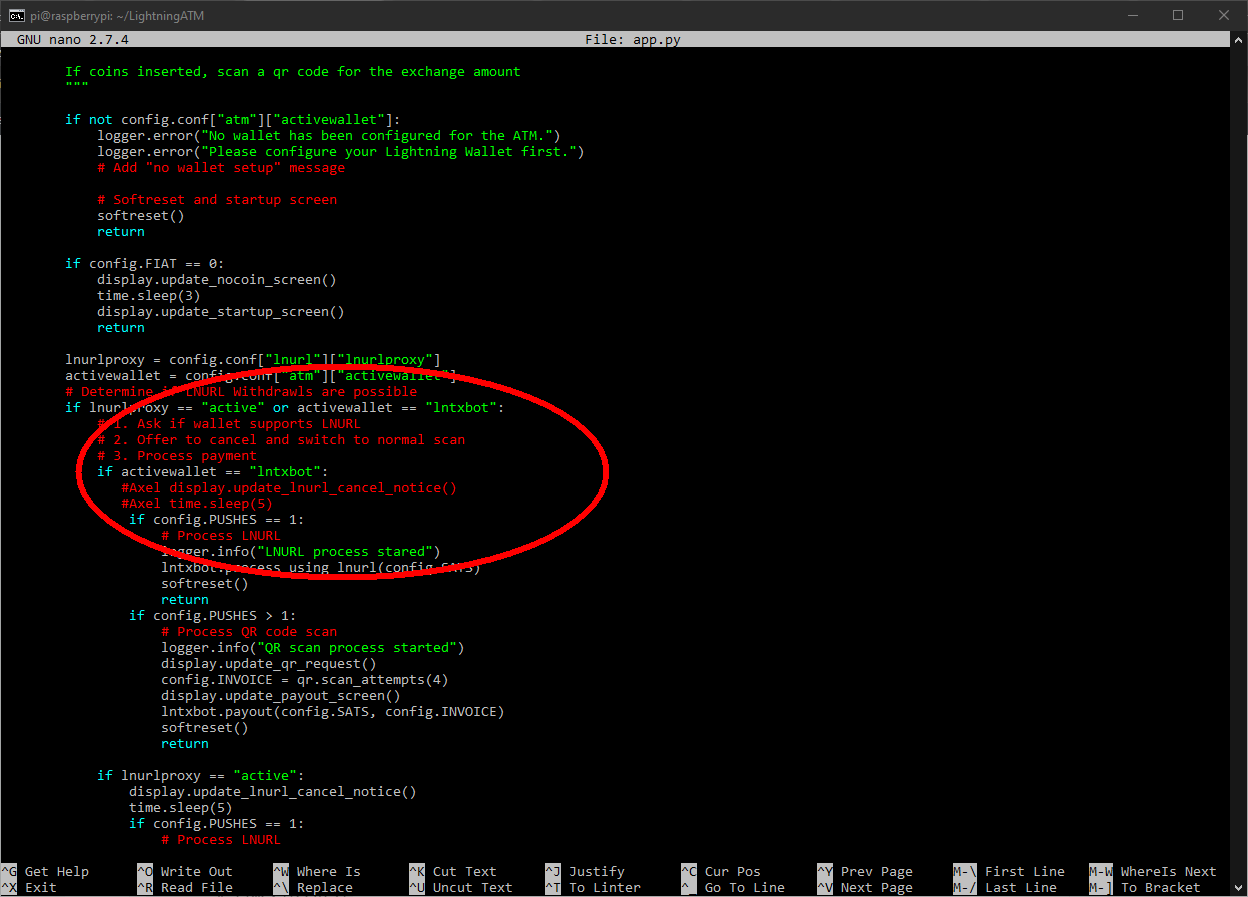
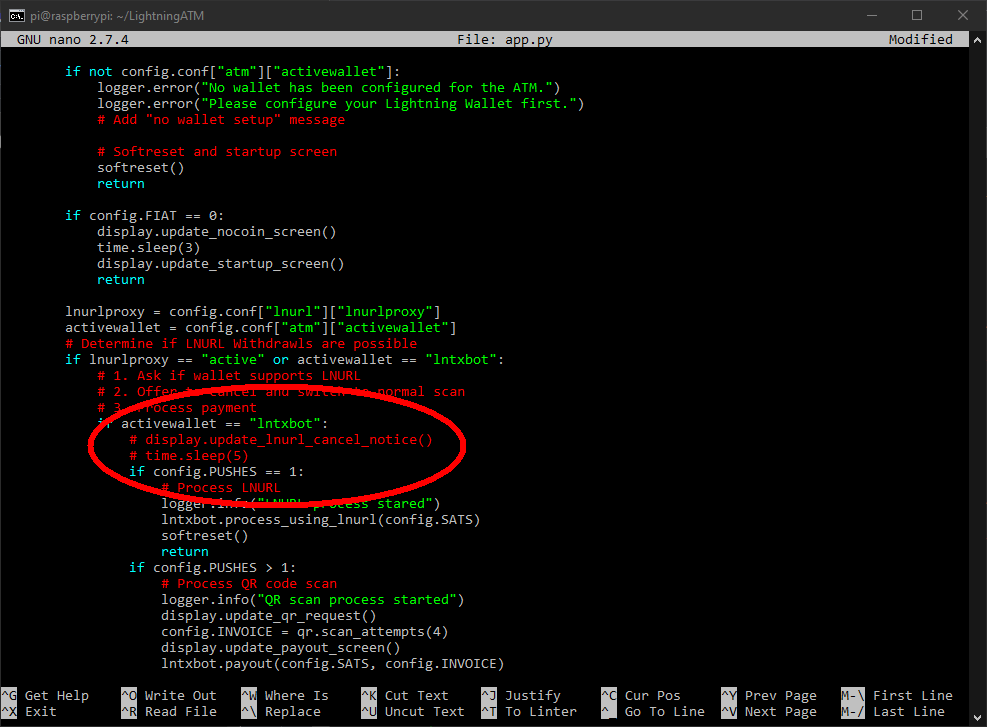
Update of the documentation (#58)
* Removed the pulse handling part in the app.py because not relevant anymore
* Few pictures update
* Add doc navigation 
* Fixed an error in the edit_config.md
* Fixes some more small sentenses for better underständing

Changed region(s): [[0.0, 0.0, 1.0, 1.0]]

diff --git a/docs/guide/edit_config.md b/docs/guide/edit_config.md
@@ -11,10 +11,10 @@ $ cd ~/LightningATM/
 $ ./app.py
 ```
 
-- The app.py (the ATM) was started and the config.ini file was created
-- The display should now show `LightningATM` (You must have tested the display first!)
-- The process or the ATM can be interrupted/stopped with `CTRL+C`
-- After a short time, `Manually Interrupted` is shown in the terminal windos and you should see `ATM is turned off` on the display
+- When you first start you will probably get an error message because the default display type is wrong. But you can ignore the message. The config.ini has now been created in the background.
+- The "app.py" process can now be stopped with `CTRL+C`
+- After a short time, `Manually Interrupted` is shown in the terminal window
+- Now edit the config.ini as described below
 
 ### Open the config.ini file
 
@@ -26,14 +26,14 @@ $ nano ~/.lightningATM/config.ini
 
 ### Set the config.ini file
 
-###### Enter display type under `[atm]`
+#### Enter display type under `[atm]`
 
 ```
 	display = waveshare2in13v2
 ```
 `Note:` Please compare the display type. Yours may require different settings.
 
-###### *Only for Pocket Version:* Delay time (set from 0 to 12 seconds)
+#### *Only for Pocket Version:* Delay time (set from 0 to 12 seconds)
 
 ```
 	payoutdelay = 12 
@@ -42,7 +42,7 @@ $ nano ~/.lightningATM/config.ini
 - Its needed for the the pocket version, because it has no push button for confimrmation. The invoice will be generated automatically after 12 seconds
 - Note: If you have a button version, you must keep the 0.
 
-###### Set activate wallet type / example LNTXBOT
+#### Set activate wallet type / example LNTXBOT
 
 - If you would like to set a BTCPayServer wallet, get further information here: [BTCPayServer](https://docs.lightningatm.me/lightningatm-setup/wallet-setup/lnd_btcpay)
 - Note: A good guide to getting started with the LNTXBOT can be found here: [coincharge.io](https://coincharge.io/en/lntxbot-telegram-lightning-wallet/)
@@ -51,7 +51,7 @@ $ nano ~/.lightningATM/config.ini
 	activewallet = lntxbot
 ```
 
-###### Under `[lntxbot]` enter the data for the API to the lntxbot
+#### Under `[lntxbot]` enter the data for the API to the lntxbot
 
 ```
 [lntxbot]
@@ -63,7 +63,9 @@ creds = abc..xyz==
 - Note: The LNTXBOT delivers `url` and `creds` with the command `/lightningATM` from you Telegram bot
 - The structure from the bot answer is build up like: `<creds>@<url>`
 
-###### Set the coins to the pulses
+#### Set the coins to the pulses
+
+- Each coin generates a specific number of pulses. Here 2 to 7 pulses.
 
 ```
 [coins]
@@ -76,16 +78,43 @@ coin_types = 2,0.05,5  eur cent
              7,2.00,2 eur
 ```
 
-- To save and exit the editor: `CTRL+x -> y -> ENTER`
-- Note: In version 0.3.0 you still had to make the setting in app.py. I don't know which version you get, but if the settings with the config.ini don't work, you can set them directly in the app.py. I wrote something about that in the next chapter "[edit app.py](/docs/guide/edit_app.md)". But if you are lucky, it might be enough to set it here in the config.ini. You have to test it out. With the monitoring system (tmux), explanation see chapter "[tmux monitoring](/docs/guide/tmux_monitoring.md)", you can see that well.
+- When you finshed with changings in the config.ini, save and exit the editor: `CTRL+x -> y -> ENTER`
+- Note: In the config.ini you can also change the currency and fees
 
-config.ini part 1 (just an example)
+config.ini part 1 (example)
 ![config.ini part 1](../pictures/edit_config_terminal_1.png)
 
-config.ini part 2 (just an example)
+config.ini part 2 (example)
 ![config.ini part 2](../pictures/edit_config_terminal_2.png)
 
+#### Test the settings (or the entire ATM) once
 
+- Start the ATM again
+
+```
+$ cd ~/LightningATM/
+$ ./app.py
+```
+
+- The display should now show `LightningATM`
+- If everything is entered correctly, the ATM should now be ready for use
+- Just test it with few coins
+- If it doesn't work, the chapter with [`tmux`](/docs/guide/tmux_monitoring.md) will come later. You can make a diagnosis there
+- To stop the ATM just press `CTRL+C`
+- After a short time, `Manually Interrupted` is displayed and you can see on the display that the `ATM is turned off`
+- Note: How to give the ATM an autostart function, you will learn later in chapter [`autostart`](/docs/guide/autostart.md)
+
+display LightningATM
+
+<img src="../pictures/edit_config_display_ATM_on.jpg" width="500">
+
+display ATM turned off!
+
+<img src="../pictures/edit_config_display_ATM_off.jpg" width="500">
+
+---
+
+#### [display](/docs/guide/display.md)  ᐊ  previous | next  ᐅ  [edit_app](/docs/guide/edit_app.md)
 
 
 

diff --git a/docs/guide/edit_app.md b/docs/guide/edit_app.md
@@ -11,8 +11,8 @@ $ nano app.py
 
 ##### Optional setting *only for the pocket version:* Skip the "Prepare for LNURL" page:
 
-- Search for `display.update_lnurl_cancel_notice()` with `CTRL+W`. (It exists twice)
-- There is a place where it says `if activewallet == "lntxbot"`, please edit the two lines (see picture)
+- Search for `display.update_lnurl_cancel_notice()` with `CTRL+W` or just scroll down a few lines. 
+- There is a place where it says `if activewallet == "lntxbot"`, please edit the two lines below (see picture)
 
 ###### Comment out the following two lines with `#`
 
@@ -21,43 +21,14 @@ $ nano app.py
 	# time.sleep(5)
 ```
 
--> This will skip the LNURL "query page" as it is not relevant for the pocket version (without push button).
+-> This will skip the LNURL "query page" as it is not relevant to the pocket version 
 
-#####  Alternative setting: coin preselection if the setting in config.ini does not work:
-
-###### Adjustment of the pulses for the respective coins
-
-- Search for `if config.PULSES == 2` in app.py with `CTRL+W`
-- There you will find the setting options for the coins. 
-- Note: If you can't find `if config.PULSES == 2` in the app.py file, then you might have a higher version then V0.3.0 and the coin settings are in the config.ini. You can skip this point.
-
-######  For example:
-
-```
-	if config.PULSES == 2:
-			config.FIAT += 0.02
-			..
-			logger.info("2 cents added")
-			..
-```
-
-The settings are now set in the same way as the coin validator is parameterized:
-
-###### For the example, two pulses = 5 cents
-
-```
-	if config.PULSES == 2:
-			config.FIAT += 0.05
-			..
-			logger.info("5 cents added")
-			..
-```
-
-- Repead the change up to 2 euros = 2.00 (200 cents)
-- Note: As I said, you only have to do this if the setting in config.ini doesn't work
-
-app.py - Skip the "Prepare for LNURL" (just an example)
+app.py - Skip the "Prepare for LNURL" (example only für ATM without push button)
 ![edit app](../pictures/edit_app_terminal_1.png)
+
+---
+
+#### [edit_config](/docs/guide/edit_config.md)  ᐊ  previous | next  ᐅ  [tmux_monitoring](/docs/guide/tmux_monitoring.md)
 
 
 

diff --git a/docs/guide/tmux_monitoring.md b/docs/guide/tmux_monitoring.md
@@ -2,20 +2,20 @@
 
 This allows the terminal window to be split vertically into two parts to observe two processes at the same time.
 
-###### Command overview for the terminal multiplexer (tmux) 
+###### Install tmux
+
+```
+$ cd ~
+$ sudo apt install tmux    
+```
+
+###### Necessary commands for the terminal multiplexer (tmux) 
 
 ```
 CTRL + b -> % = split window
 CTRL + b -> right or left arrow = change the window
 CTRL + b -> CTRL + right or left arrow = move dividing line
 CTRL + b -> d = back to single window
-```
-
-###### Install tmux
-
-```
-$ cd ~
-$ sudo apt install tmux    
 ```
 
 ###### Start and use tmux
@@ -35,7 +35,7 @@ $ tmux
 	$ ./app.py
 ```
 
-- Note: If the ATM is already started (check with `$ sudo systemctl status LightningATM.service`), you should stop it (with `$ sudo systemctl stop LightningATM.service`) before starting it in manually (with `.app.py`) in the tmux terminal window. Otherwise strange phenomena may occur. 
+- Note:  If you have already activated the autostart function, problems can arise if you start the app.py in the tmux window at the same time. Therefore, it is better to end the service for the tmux and activate it again later. See next chapter [`autostart`](/docs/guide/autostart.md).
 
 ######  Start `debug.log`
 
@@ -51,4 +51,9 @@ Example tmux window
 
 ![tmux window](../pictures/tmux_monitoring_terminal.png)
 
-Left side you see the pulses. Right side you see the coins to it. 5, 2, 7, 2 => 50 Cent, 5 Cent, 2 Euro, 5 Cent
+Two withdrawals were made here. Once 5 cents and once 1.60 euros (10 cents + 50 cents + 1 euro). Left side you see the pulses. Right side you see the coins to it. 2 = 5 Cent, 3 = 10 Cent, 5 = 50 Cent, 6 = 1 Euro. The final balance is 152048 satoshis.
+
+---
+
+#### [edit_app](/docs/guide/edit_app.md)  ᐊ  previous | next  ᐅ  [autostart](/docs/guide/autostart.md)
+

diff --git a/docs/guide/information_and_tips.md b/docs/guide/information_and_tips.md
@@ -4,7 +4,11 @@
 - You can get more help in the Telegram group: [https://t.me/lightningatm_building](https://t.me/lightningatm_building)
 - When making entries in the terminal window (CLI = Command Line Interface), it is best to copy and paste the commands: 
 
-  > Copy the command to the clipboard with `STRG+C` and then point to the blinking cursor in the CLI window and press the right mouse button to paste the clipboard into the terminal window
+  > Copy the command to the clipboard with `STRG+C` and then point to the blinking cursor in the CLI window and press the right mouse button to paste the clipboard into the terminal window. (If it doesn't work, make the terminal window "aktiv" - with one left click on the window - befor you do the right click.)
 - If you get the error "bash: $: command not found", you may have copied the dollar sign "$" in front of the command. Don't do that!
 - When logging in via SSH, make sure to use the correct user `pi`. If you accidentally use `admin` or make a typo, you will not see an error, but the password will not be accepted
 - You can change WiFi parameters with the command: `$ sudo nano /etc/wpa_supplicant/wpa_supplicant.conf`
+
+---
+
+#### [camera](/docs/guide/camera.md)  ᐊ  previous | next  ᐅ  [README](/README.md)

diff --git a/docs/guide/camera.md b/docs/guide/camera.md
@@ -1,6 +1,6 @@
 ##  Installation and testing the camera
 
-The 5MP Camera OV5647 for the Raspberry Pi is available from different manufacturers and with slightly different designs.
+The camera is an optional feature and allows you to scan LNURL addresses. The 5MP Camera OV5647 is available from different manufacturers and with slightly different designs.
 To test the function of the camera you can take a picture and download it to you computer.
 
 ### Installation
@@ -110,7 +110,9 @@ Note: This camera was pretty cheap and has a variable lens that was pretty loose
       
 - You can do also videos. The command is `raspivid`
 
+---
 
+#### [autostart](/docs/guide/autostart.md)  ᐊ  previous | next  ᐅ  [information_and_tips](/docs/guide/information_and_tips.md)
 
 
 

diff --git a/docs/guide/autostart.md b/docs/guide/autostart.md
@@ -17,4 +17,8 @@ $ sudo systemctl stop LightningATM.service
 $ sudo systemctl start LightningATM.service
 ```
 
-- Note: From now on the ATM will start automatically. If you want to observe the app.py in tmux, you should stop the "LightningATM.service" manually, bevor you start the app.py in the tmux.
+- Note: From now on the ATM will start automatically after booting. If you want to observe the app.py in tmux, you should `stop` the "LightningATM.service" manually, bevor you start the app.py in the tmux. Don't forget to `start` the service again afterwards.
+
+---
+
+#### [tmux_monitoring](/docs/guide/tmux_monitoring.md)  ᐊ  previous | next  ᐅ  [camera](/docs/guide/camera.md)

diff --git a/docs/guide/display.md b/docs/guide/display.md
@@ -21,6 +21,10 @@ $ sudo python3 ./epd_2in13_V2_test.py
 
 If everything has been correctly connected and installed, the display will now show a demonstration and finally the screen will cleare.
 
-display
-![display](../pictures/display_2.13inch.jpg)
+display demo
 
+<img src="../pictures/display_demo.jpg" width="500">
+
+---
+
+#### [sdcard_and_wifi](/docs/guide/sdcard_and_wifi.md)  ᐊ  previous | next  ᐅ  [edit_config](/docs/guide/edit_config.md)

diff --git a/docs/guide/wiring.md b/docs/guide/wiring.md
@@ -29,5 +29,9 @@ Pocket version wiring build-in with coin validator             |  Direct wiring,
 :-------------------------:|:-------------------------:
 ![](../pictures/wiring_pv_build-in_complet.jpg)  |  ![](../pictures/wiring_direct_wiring.jpg)
 
+---
+
+#### [coin_validator](/docs/guide/coin_validator.md)  ᐊ  previous | next  ᐅ  [sdcard_and_wifi](/docs/guide/sdcard_and_wifi.md)
+
 
 

diff --git a/docs/guide/voltage_converter.md b/docs/guide/voltage_converter.md
@@ -17,8 +17,6 @@ voltage converter poti
 
 <img src="../pictures/voltage_converter_poti.jpg" width="500">
 
-calibrating voltage converter
-![calibrating voltage converter](../pictures/voltage_converter_coin.jpg)
+---
 
-
-
+#### [README](/README.md)  ᐊ  previous | next  ᐅ  [coin_validator](/docs/guide/coin_validator.md)

diff --git a/docs/guide/sdcard_and_wifi.md b/docs/guide/sdcard_and_wifi.md
@@ -77,3 +77,7 @@ network={
 
 - Note: When updating, you sometimes have to confirm with `y` or `q`
 - If everything was installed, disconnect the power supply and log in again via SSH and the the new password
+
+---
+
+#### [wiring](/docs/guide/wiring.md)  ᐊ  previous | next  ᐅ  [display](/docs/guide/display.md)

diff --git a/docs/guide/coin_validator.md b/docs/guide/coin_validator.md
@@ -39,3 +39,7 @@ coin validator
 coin calibration
 ![coin calibration](../pictures/coin_validator_calibration.jpg)
 
+---
+
+#### [voltage_converter](/docs/guide/voltage_converter.md)  ᐊ  previous | next  ᐅ  [wiring](/docs/guide/wiring.md)
+
